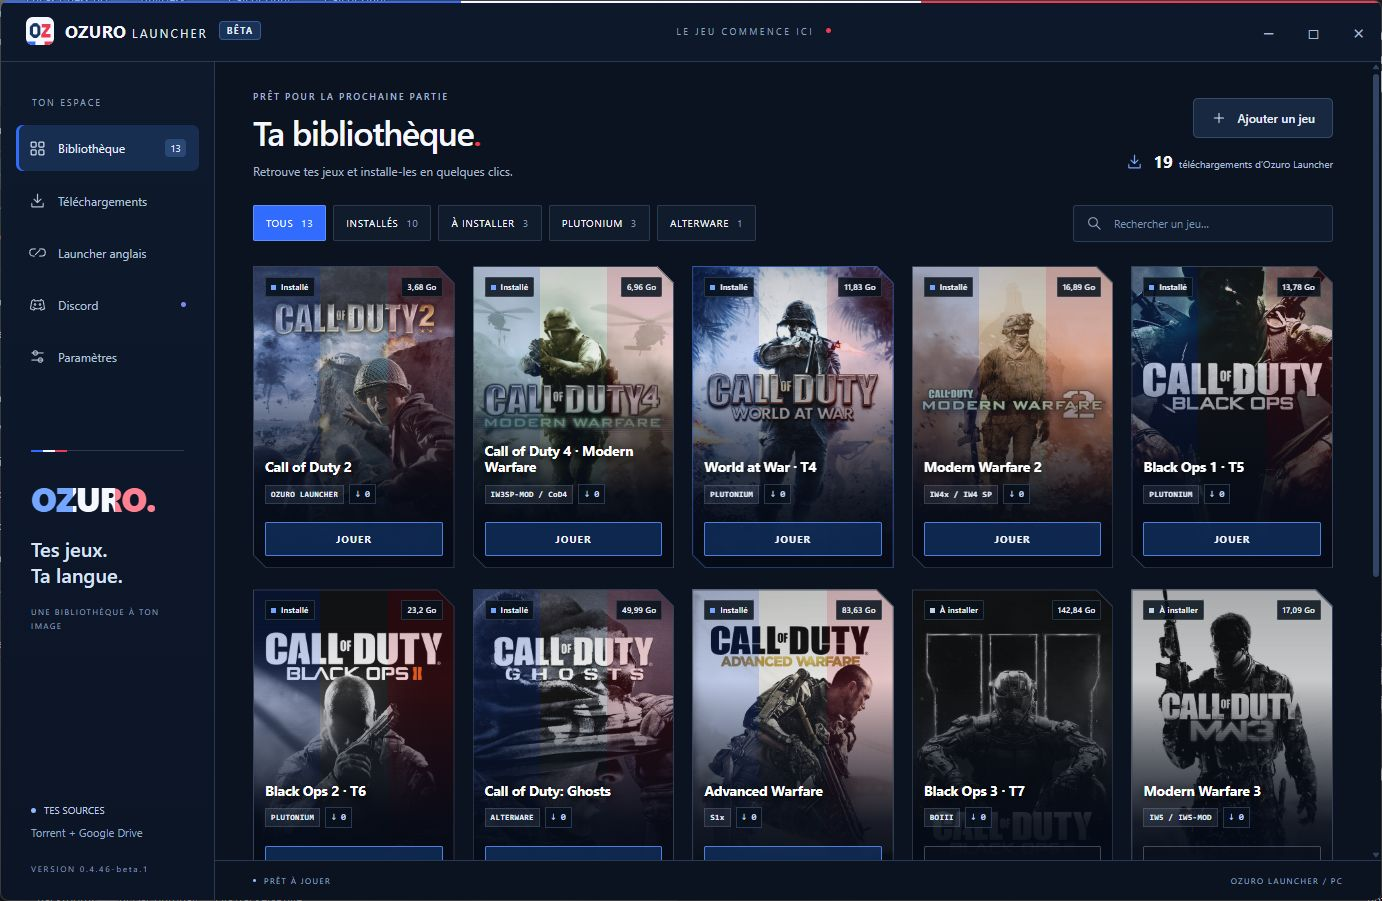
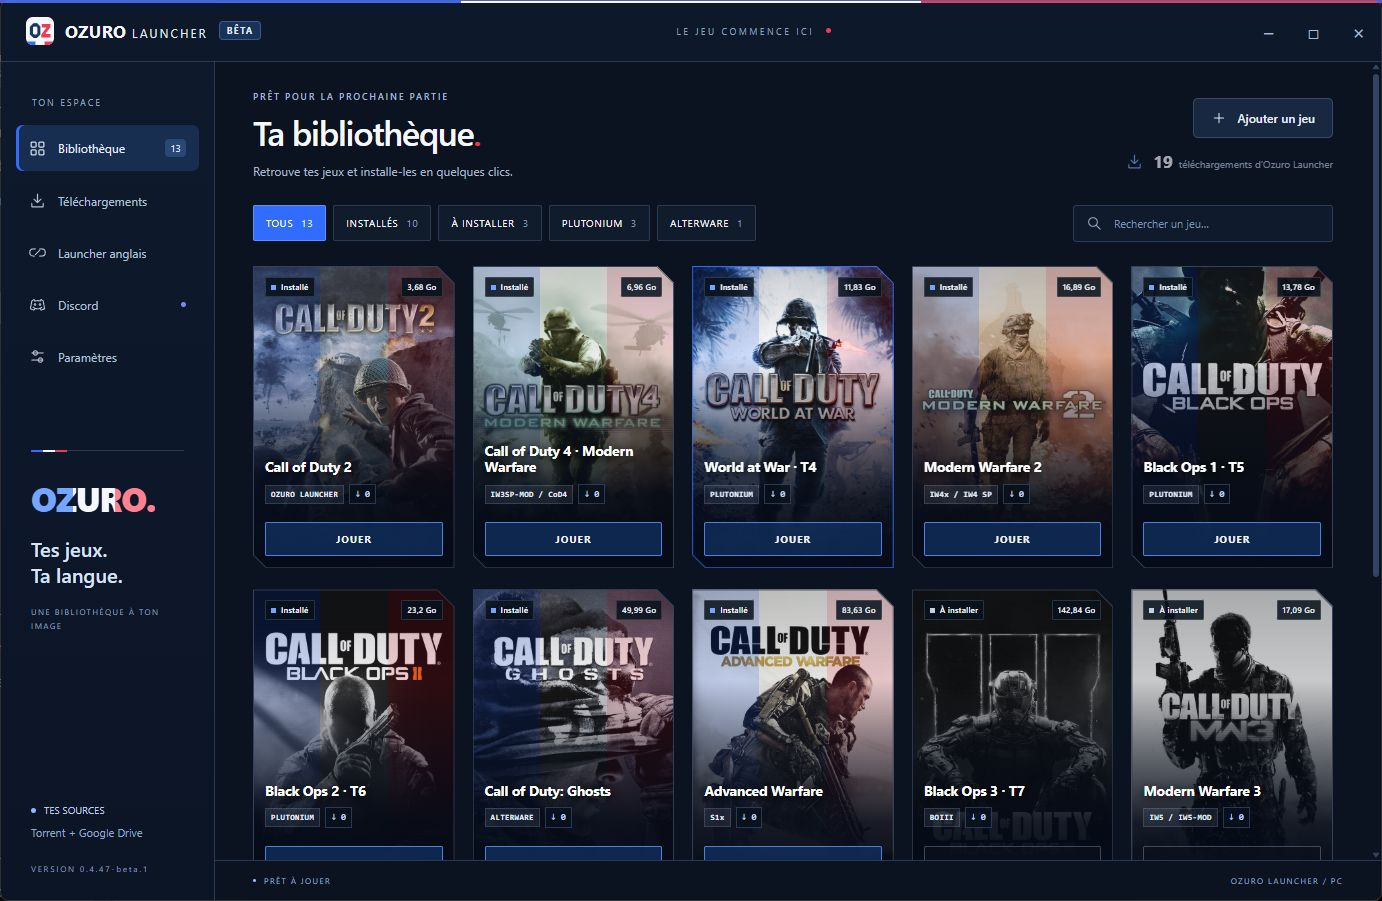
Publish Ozuro Launcher 0.4.47-beta.1 beta download page

diff --git a/SECURITE.md b/SECURITE.md
@@ -1,4 +1,12 @@
-# Sécurité de la bêta 0.4.46-beta.1
+# Sécurité de la bêta 0.4.47-beta.1
+
+## Mise à jour automatique de l’application
+
+À chaque démarrage, le launcher portable consulte les versions du seul dépôt officiel. Les brouillons et les versions plus anciennes sont ignorés. Les préversions sont acceptées pour les utilisateurs de la bêta ; une version stable ne bascule pas automatiquement vers une bêta. Le téléchargement exige une origine GitHub HTTPS autorisée, une taille attendue et une empreinte SHA-256 publiée par GitHub. Le fichier est également contrôlé comme EXE Windows.
+
+Un helper compilé localement attend la fermeture du launcher et de son parent portable, vérifie les empreintes et remplace seulement l’EXE à son emplacement. Une copie .previous.exe est conservée. Le nouveau launcher confirme son démarrage ; en cas d’échec, le helper tente de restaurer et de relancer la version précédente. Un fichier verrouillé ou un dossier non modifiable ne déclenche pas d’élévation. Un échec déjà constaté n’est pas retenté automatiquement à chaque lancement. Les profils, jeux et sources ne sont pas remplacés.
+
+Les utilisateurs de la 0.4.46 et des versions antérieures doivent installer cette version manuellement une dernière fois.
 
 ## Torrent et conservation des fichiers
 
@@ -16,8 +24,8 @@ Les compteurs par jeu reçoivent uniquement l'identifiant du jeu et un identifia
 
 ## Validation et limites
 
-- 186 tests du launcher et 8 tests serveur ont réussi pour la 0.4.45. Les changements de texte de cette version ont passé 4 tests ciblés ; ses 277 contrôles d'interface compilée passent également.
-- Les 59 fichiers intégrés contrôlés correspondent aux sources ; l'intégrité ASAR et les fuses Electron sont vérifiés. Les fonctions d'injection Node restent désactivées.
+- 199 tests de la suite complète passent, ainsi que 4 tests Windows ciblés et 281 contrôles de l’interface compilée. Le remplacement et le redémarrage d’un vrai EXE portable ont été vérifiés avec un profil isolé et des métadonnées simulées.
+- Les 62 fichiers intégrés contrôlés correspondent aux sources ; l'intégrité ASAR et les fuses Electron sont vérifiés. Les fonctions d'injection Node restent désactivées.
 - L'EXE est non signé Authenticode. Son empreinte SHA-256 vérifie les octets téléchargés ; elle ne remplace pas une signature Windows ni une source de confiance.
 - Les quotas et la disponibilité des fournisseurs peuvent interrompre le tracker ou les compteurs. Le tracker gère IPv4.
 - Ces contrôles concernent le launcher ; ils ne certifient pas chaque jeu, DLL, mod ou mise à jour tierce. Aucun vrai jeu n'a été exécuté pendant ces essais et aucun transfert entre deux réseaux distincts n'est certifié par cette publication.

diff --git a/README.md b/README.md
@@ -4,11 +4,11 @@ Launcher Windows en français, aux couleurs bleu, blanc, rouge.
 
 ## Télécharger
 
-[Télécharger Ozuro Launcher 0.4.46-beta.1 pour Windows](https://github.com/matthieu545/ozuro-launcher-downloads/releases/download/v0.4.46-beta.1/Ozuro-Launcher-0.4.46-beta.1.exe).
+[Télécharger Ozuro Launcher 0.4.47-beta.1 pour Windows](https://github.com/matthieu545/ozuro-launcher-downloads/releases/download/v0.4.47-beta.1/Ozuro-Launcher-0.4.47-beta.1.exe).
 
-**Version bêta — destinée aux tests.** Le fichier portable suffit ; aucun jeu n'est inclus dans l'EXE. La [page de cette préversion](https://github.com/matthieu545/ozuro-launcher-downloads/releases/tag/v0.4.46-beta.1) contient l'EXE, sa notice et son empreinte SHA-256. Les versions précédentes restent dans [Releases](https://github.com/matthieu545/ozuro-launcher-downloads/releases).
+**Version bêta — destinée aux tests.** Le fichier portable suffit ; aucun jeu n'est inclus dans l'EXE. La [page de cette préversion](https://github.com/matthieu545/ozuro-launcher-downloads/releases/tag/v0.4.47-beta.1) contient l'EXE, sa notice et son empreinte SHA-256. Les versions précédentes restent dans [Releases](https://github.com/matthieu545/ozuro-launcher-downloads/releases).
 
-![Bibliothèque Ozuro Launcher 0.4.46-beta.1](docs/images/launcher.png)
+![Bibliothèque Ozuro Launcher 0.4.47-beta.1](docs/images/launcher.png)
 
 ## Utiliser
 
@@ -21,6 +21,7 @@ Les préférences restent dans le dossier historique **%APPDATA%\FR Launcher** e
 
 ## Nouveautés depuis la 0.4.36
 
+- Mises à jour automatiques du launcher au démarrage : téléchargement depuis le dépôt officiel, vérification SHA-256 et redémarrage automatique. Les jeux et les réglages sont conservés. Les utilisateurs de la 0.4.46 et des versions précédentes doivent installer manuellement cette version une dernière fois.
 - Bibliothèque avec jaquettes haute définition, recherche et filtres. Les jeux à installer sont grisés ; les jeux installés ont un voile bleu, blanc, rouge et un contour bleu au survol.
 - Choix des modes disponibles lors de l'installation et possibilité de retirer un mode pour récupérer de l'espace, tout en conservant les fichiers partagés et personnels. La campagne de Call of Duty 4 est proposée séparément du multijoueur.
 - Affichage du volume à télécharger et de l'espace disque disponible dans le dossier choisi.
